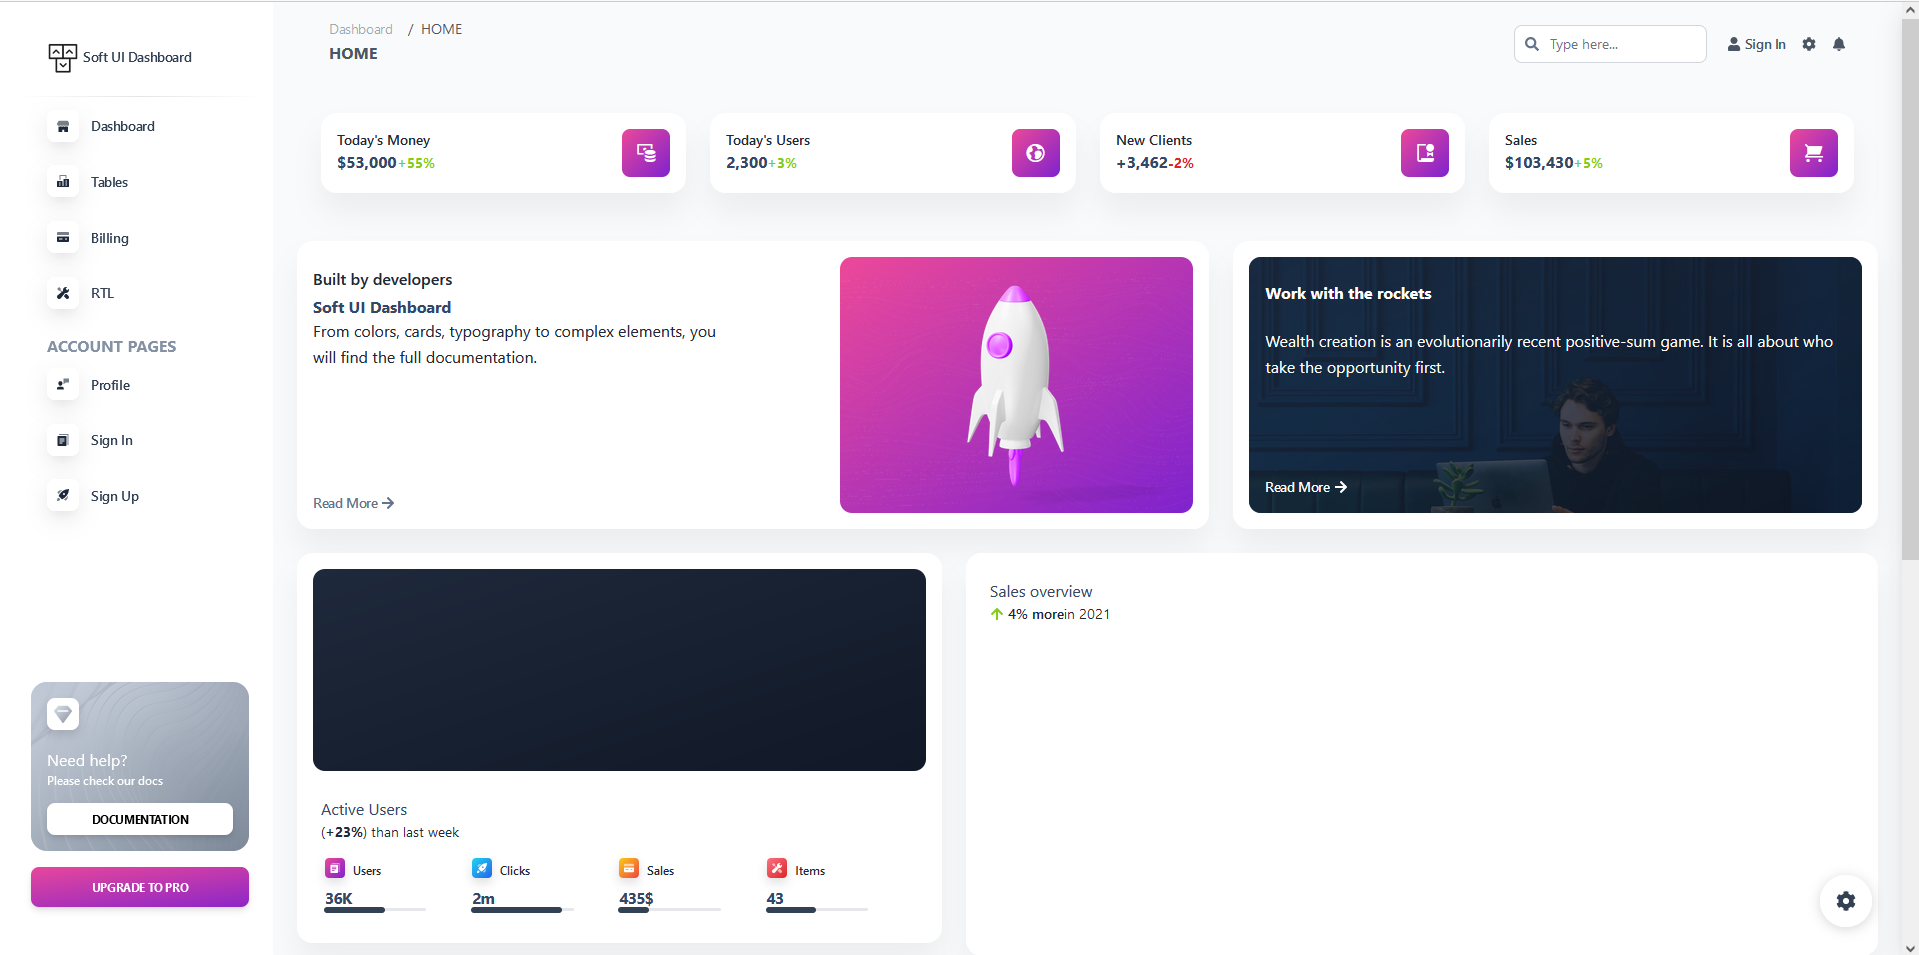
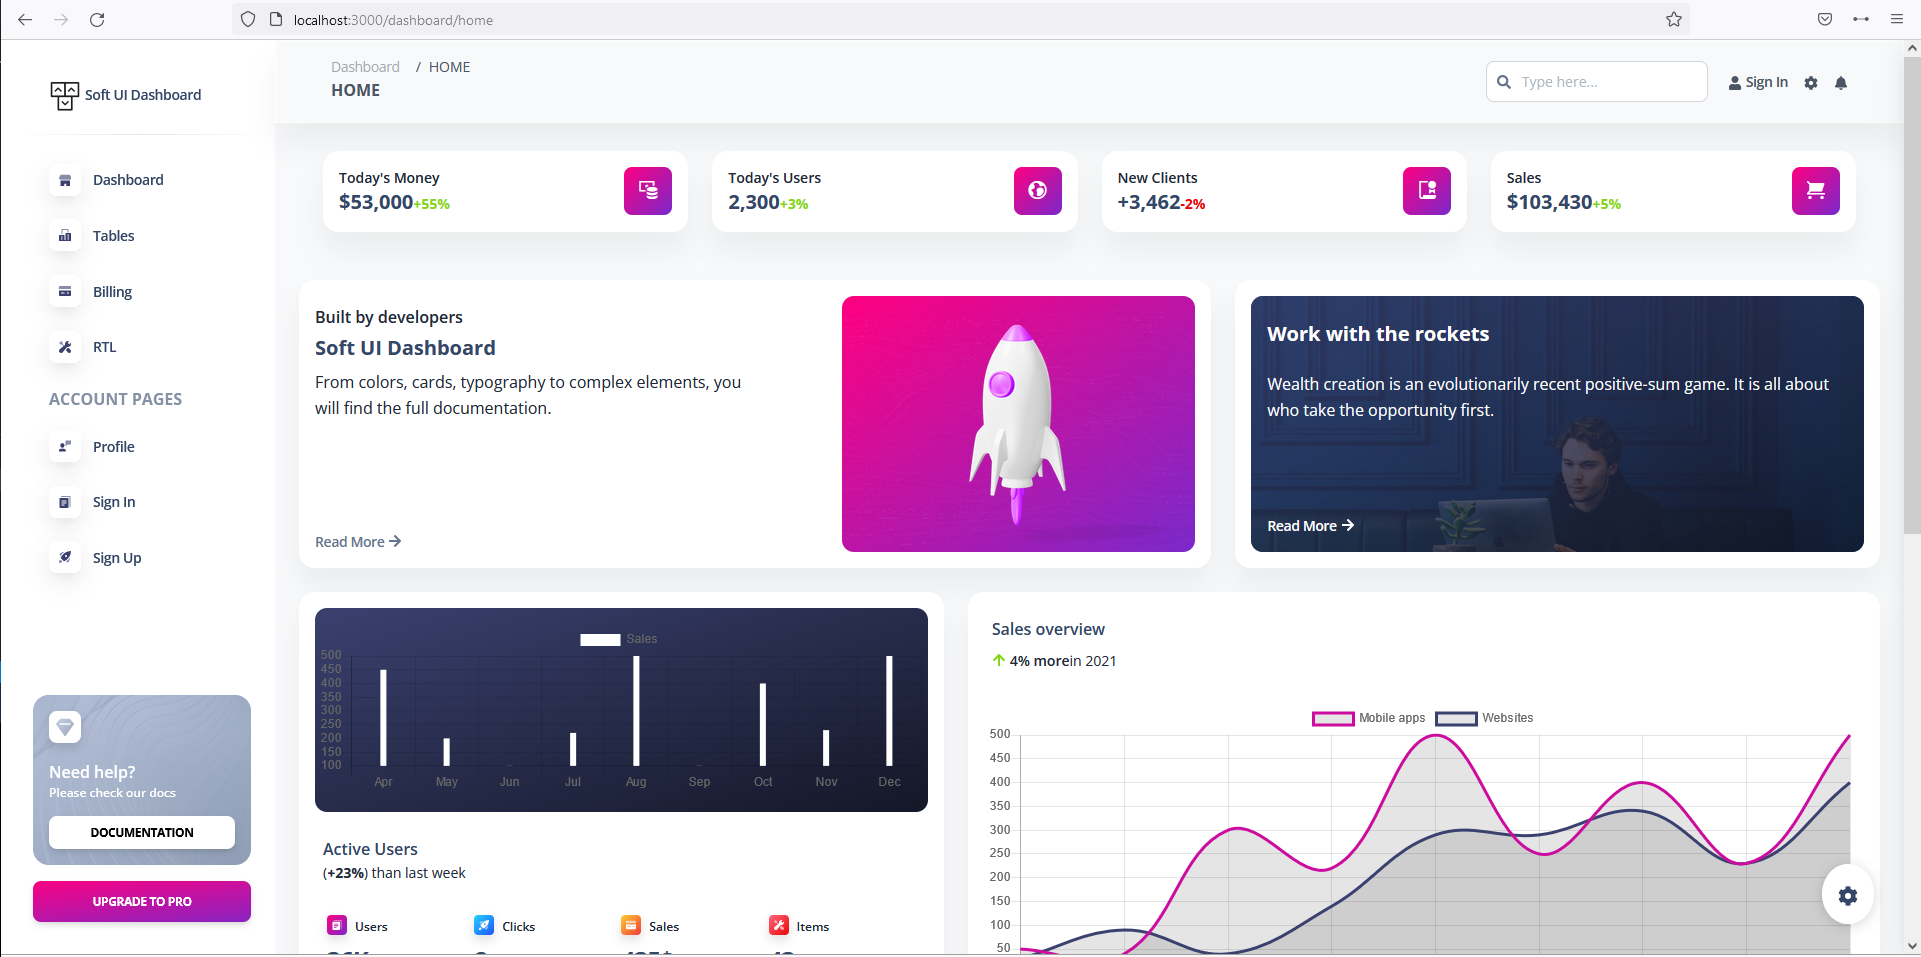
added chartjs

diff --git a/app/Components/chart2.js b/app/Components/chart2.js
@@ -1,0 +1,114 @@
+'use client'
+
+import Chart from "chart.js";
+import { useEffect } from "react";
+
+
+export default function Chart2({height=170}) {
+    useEffect(() => {
+        var config = {
+            type: "line",
+            data: {
+              labels: ["Apr", "May", "Jun", "Jul", "Aug", "Sep", "Oct", "Nov", "Dec"],
+              datasets: [
+                {
+                  label: "Mobile apps",
+                  tension: 0.4,
+                  borderWidth: 0,
+                  pointRadius: 0,
+                  borderColor: "#cb0c9f",
+                  borderWidth: 3,
+                  backgroundColor: gradientStroke1,
+                  fill: true,
+                  data: [50, 40, 300, 220, 500, 250, 400, 230, 500],
+                  maxBarThickness: 6,
+                },
+                {
+                  label: "Websites",
+                  tension: 0.4,
+                  borderWidth: 0,
+                  pointRadius: 0,
+                  borderColor: "#3A416F",
+                  borderWidth: 3,
+                  backgroundColor: gradientStroke2,
+                  fill: true,
+                  data: [30, 90, 40, 140, 290, 290, 340, 230, 400],
+                  maxBarThickness: 6,
+                },
+              ],
+            },
+            options: {
+              responsive: true,
+              maintainAspectRatio: false,
+              plugins: {
+                legend: {
+                  display: false,
+                },
+              },
+              interaction: {
+                intersect: false,
+                mode: "index",
+              },
+              scales: {
+                y: {
+                  grid: {
+                    drawBorder: false,
+                    display: true,
+                    drawOnChartArea: true,
+                    drawTicks: false,
+                    borderDash: [5, 5],
+                  },
+                  ticks: {
+                    display: true,
+                    padding: 10,
+                    color: "#b2b9bf",
+                    font: {
+                      size: 11,
+                      family: "Open Sans",
+                      style: "normal",
+                      lineHeight: 2,
+                    },
+                  },
+                },
+                x: {
+                  grid: {
+                    drawBorder: false,
+                    display: false,
+                    drawOnChartArea: false,
+                    drawTicks: false,
+                    borderDash: [5, 5],
+                  },
+                  ticks: {
+                    display: true,
+                    color: "#b2b9bf",
+                    padding: 20,
+                    font: {
+                      size: 11,
+                      family: "Open Sans",
+                      style: "normal",
+                      lineHeight: 2,
+                    },
+                  },
+                },
+              },
+            },
+          }
+          var ctx2 = document.getElementById("line-chart2").getContext("2d");
+          var gradientStroke1 = ctx2.createLinearGradient(0, 230, 0, 50);
+
+            gradientStroke1.addColorStop(1, "rgba(203,12,159,0.2)");
+            gradientStroke1.addColorStop(0.2, "rgba(72,72,176,0.0)");
+            gradientStroke1.addColorStop(0, "rgba(203,12,159,0)"); //purple colors
+
+            var gradientStroke2 = ctx2.createLinearGradient(0, 230, 0, 50);
+
+            gradientStroke2.addColorStop(1, "rgba(20,23,39,0.2)");
+            gradientStroke2.addColorStop(0.2, "rgba(72,72,176,0.0)");
+            gradientStroke2.addColorStop(0, "rgba(20,23,39,0)"); //purple colors
+            window.myLine2 = new Chart(ctx2, config);
+    }, [])
+    
+    return (
+        <canvas id="line-chart2" height={height}></canvas>
+    )
+}

diff --git a/app/Components/chart1.js b/app/Components/chart1.js
@@ -1,0 +1,81 @@
+'use client'
+
+import Chart from "chart.js";
+import { useEffect } from "react";
+
+
+export default function Chart1({height=170}) {
+    useEffect(() => {
+        var config = {
+            type: "bar",
+            data: {
+              labels: ["Apr", "May", "Jun", "Jul", "Aug", "Sep", "Oct", "Nov", "Dec"],
+              datasets: [
+                {
+                  label: "Sales",
+                  tension: 0.4,
+                  borderWidth: 0,
+                  borderRadius: 4,
+                  borderSkipped: false,
+                  backgroundColor: "#fff",
+                  data: [450, 200, 100, 220, 500, 100, 400, 230, 500],
+                  maxBarThickness: 6,
+                },
+              ],
+            },
+            options: {
+              responsive: true,
+              maintainAspectRatio: false,
+              plugins: {
+                legend: {
+                  display: false,
+                },
+              },
+              interaction: {
+                intersect: false,
+                mode: "index",
+              },
+              scales: {
+                y: {
+                  grid: {
+                    drawBorder: false,
+                    display: false,
+                    drawOnChartArea: false,
+                    drawTicks: false,
+                  },
+                  ticks: {
+                    suggestedMin: 0,
+                    suggestedMax: 600,
+                    beginAtZero: true,
+                    padding: 15,
+                    font: {
+                      size: 14,
+                      family: "Open Sans",
+                      style: "normal",
+                      lineHeight: 2,
+                    },
+                    color: "#fff",
+                  },
+                },
+                x: {
+                  grid: {
+                    drawBorder: false,
+                    display: false,
+                    drawOnChartArea: false,
+                    drawTicks: false,
+                  },
+                  ticks: {
+                    display: false,
+                  },
+                },
+              },
+            },
+          };
+          var ctx = document.getElementById("line-chart1").getContext("2d");
+          window.myLine1 = new Chart(ctx, config);
+    }, [])
+    
+    return (
+        <canvas id="line-chart1" height={height}></canvas>
+    )
+}

diff --git a/app/dashboard/home/page.js b/app/dashboard/home/page.js
@@ -1,4 +1,7 @@
+'use client'
 import { FaArrowRight, FaArrowUp, FaCheck, FaEllipsisV } from "react-icons/fa";
+import Chart1 from "../../Components/chart1";
+import Chart2 from "../../Components/chart2";
 import Footer from "../footer";
 
 export default function Home() {
@@ -163,7 +166,8 @@ export default function Home() {
                         <div className="flex-auto p-4">
                             <div className="py-4 pr-1 mb-4 bg-gradient-to-tl from-gray-900 to-slate-800 rounded-xl">
                                 <div>
-                                    <canvas id="chart-bars" height="170"></canvas>
+                                    {/* <canvas id="chart-bars" height="170"></canvas> */}
+                                    <Chart1 height={173}/>
                                 </div>
                             </div>
                             <h6 className="mt-6 mb-0 ml-2">Active Users</h6>
@@ -286,7 +290,8 @@ export default function Home() {
                         </div>
                         <div className="flex-auto p-4">
                             <div>
-                                <canvas id="chart-line" height="300"></canvas>
+                                {/* <canvas id="chart-line" height="300"></canvas> */}
+                                <Chart2 height={300}/>
                             </div>
                         </div>
                     </div>
